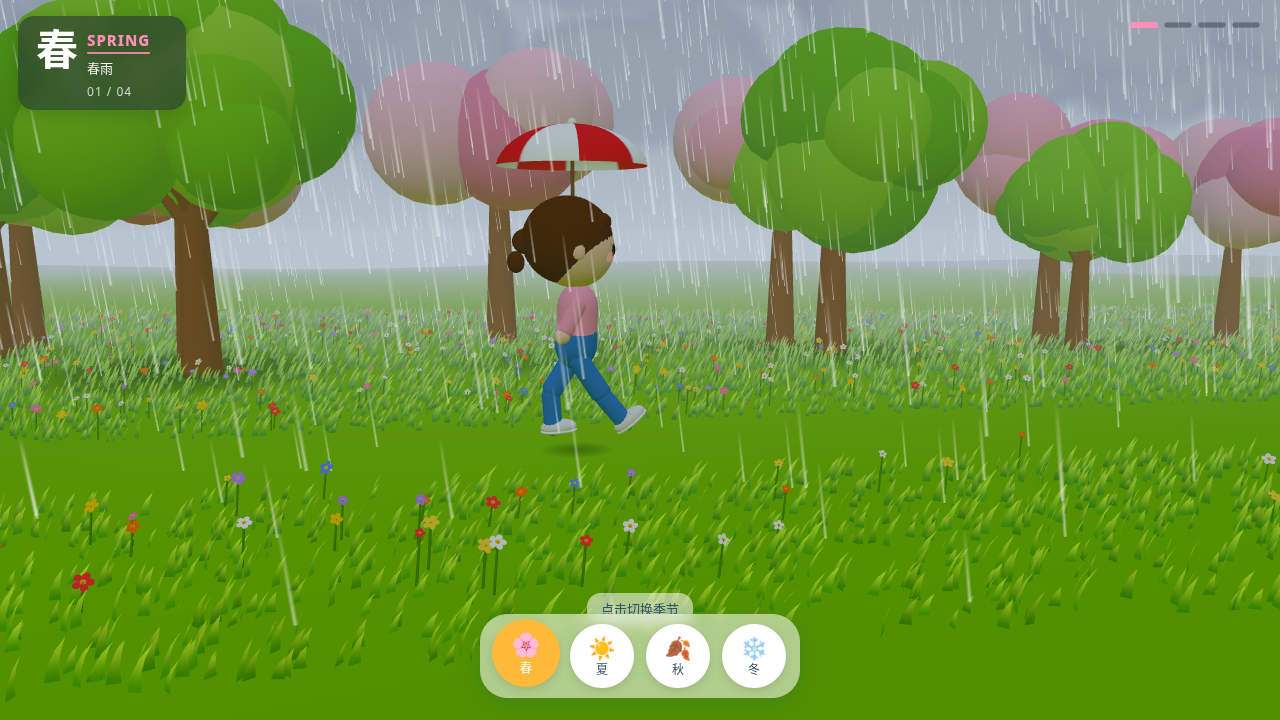
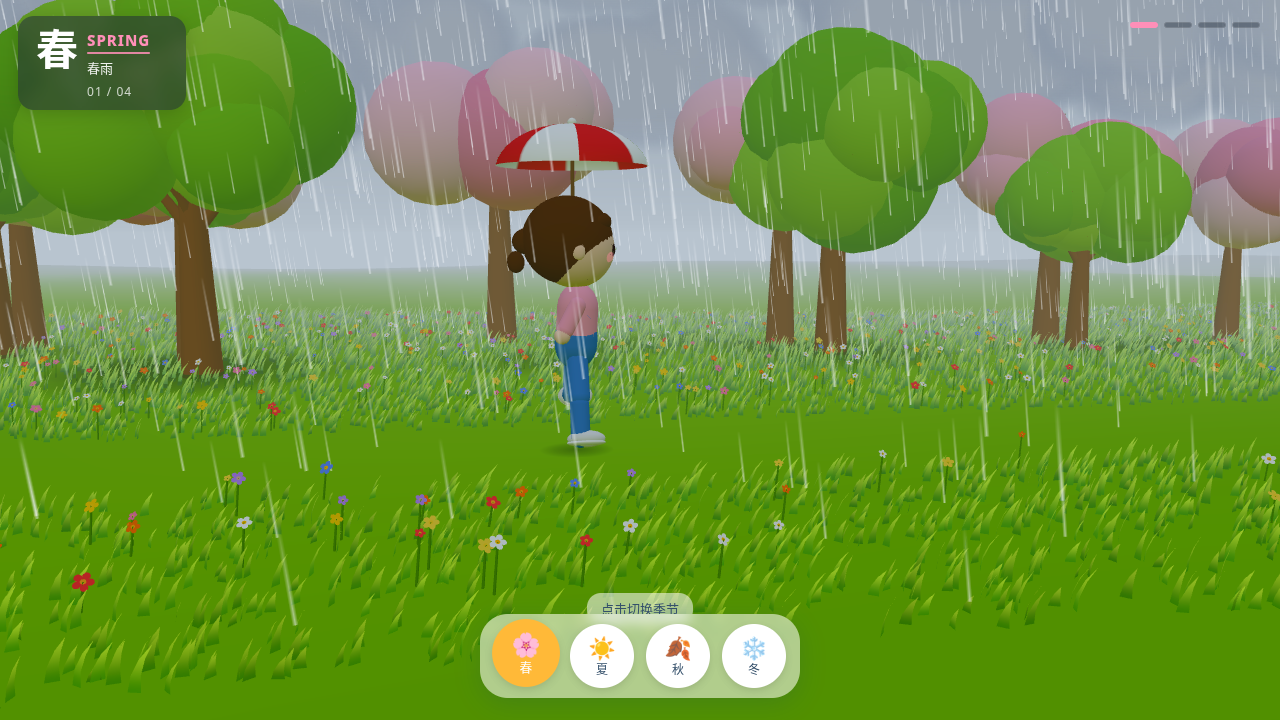
膝盖改到侧面轴向，只向正确方向弯曲

Changed region(s): [[0.4062, 0.4889, 0.5, 0.6417]]

diff --git a/main.js b/main.js
@@ -843,23 +843,21 @@ function update(dt) {
   hero.userData.heading = Math.PI / 2;
   hero.rotation.y = hero.userData.heading;
   hero.userData.blob.position.set(hero.position.x, hgt(hero.position.x, hero.position.z) + 0.03, hero.position.z + 0.05);
-  // Elegant large strides: slow cadence, long reach
+  // Elegant large strides — swing on Z (profile plane); knee only folds one way
   hero.userData.walkPh += dt * 4.2;
   const ph = hero.userData.walkPh;
-  // ease sine for smoother weight transfer
   const wc = Math.sin(ph);
   const armW = Math.sin(ph - 0.4);
   const u = hero.userData;
-  const stride = 0.78; // big elegant step
+  const stride = 0.7;
   u.legs.forEach((l, i) => {
-    const side = i ? 1 : -1;
-    // Thigh swings forward/back in sagittal plane
-    l.rotation.x = side * wc * stride;
-    l.rotation.z = 0;
-    // Knee only bends "backward" (foot toward butt) — never forward
-    // When this thigh is forward (swing), fold shin; when rear, nearly straight
-    const swing = Math.max(0, side * wc); // 0..1 while this leg is forward
-    if (l.userData.shin) l.userData.shin.rotation.x = -0.12 - swing * 0.7;
+    const phase = ph + (i === 0 ? Math.PI : 0);
+    const thigh = Math.sin(phase) * stride;
+    // Profile walk: rotate around Z so legs move in the screen plane
+    l.rotation.set(0, 0, thigh);
+    // Knee folds so shin tucks behind thigh (positive Z matched visual test z_pos)
+    const flex = Math.max(0, -Math.cos(phase));
+    if (l.userData.shin) l.userData.shin.rotation.set(0, 0, 0.2 + flex * 0.75);
   });
   const bob = Math.sin(ph * 2);
   u.body.position.y = bob * bob * 0.028;

diff --git a/index.html b/index.html
@@ -56,6 +56,6 @@ document.querySelectorAll('#ui button').forEach(function(b){ b.addEventListener(
   if (window.setWeather) window.setWeather(b.dataset.w); else window.__pendingWeather = b.dataset.w; }); });
 window.addEventListener('error', function(e){ var d=document.getElementById('err'); d.style.display='block'; d.textContent='3D 场景加载出错：' + (e.message||e); });
 </script>
-<script type="module" src="./main.js?v=1792759500"></script>
+<script type="module" src="./main.js?v=1792761500"></script>
 </body>
 </html>
